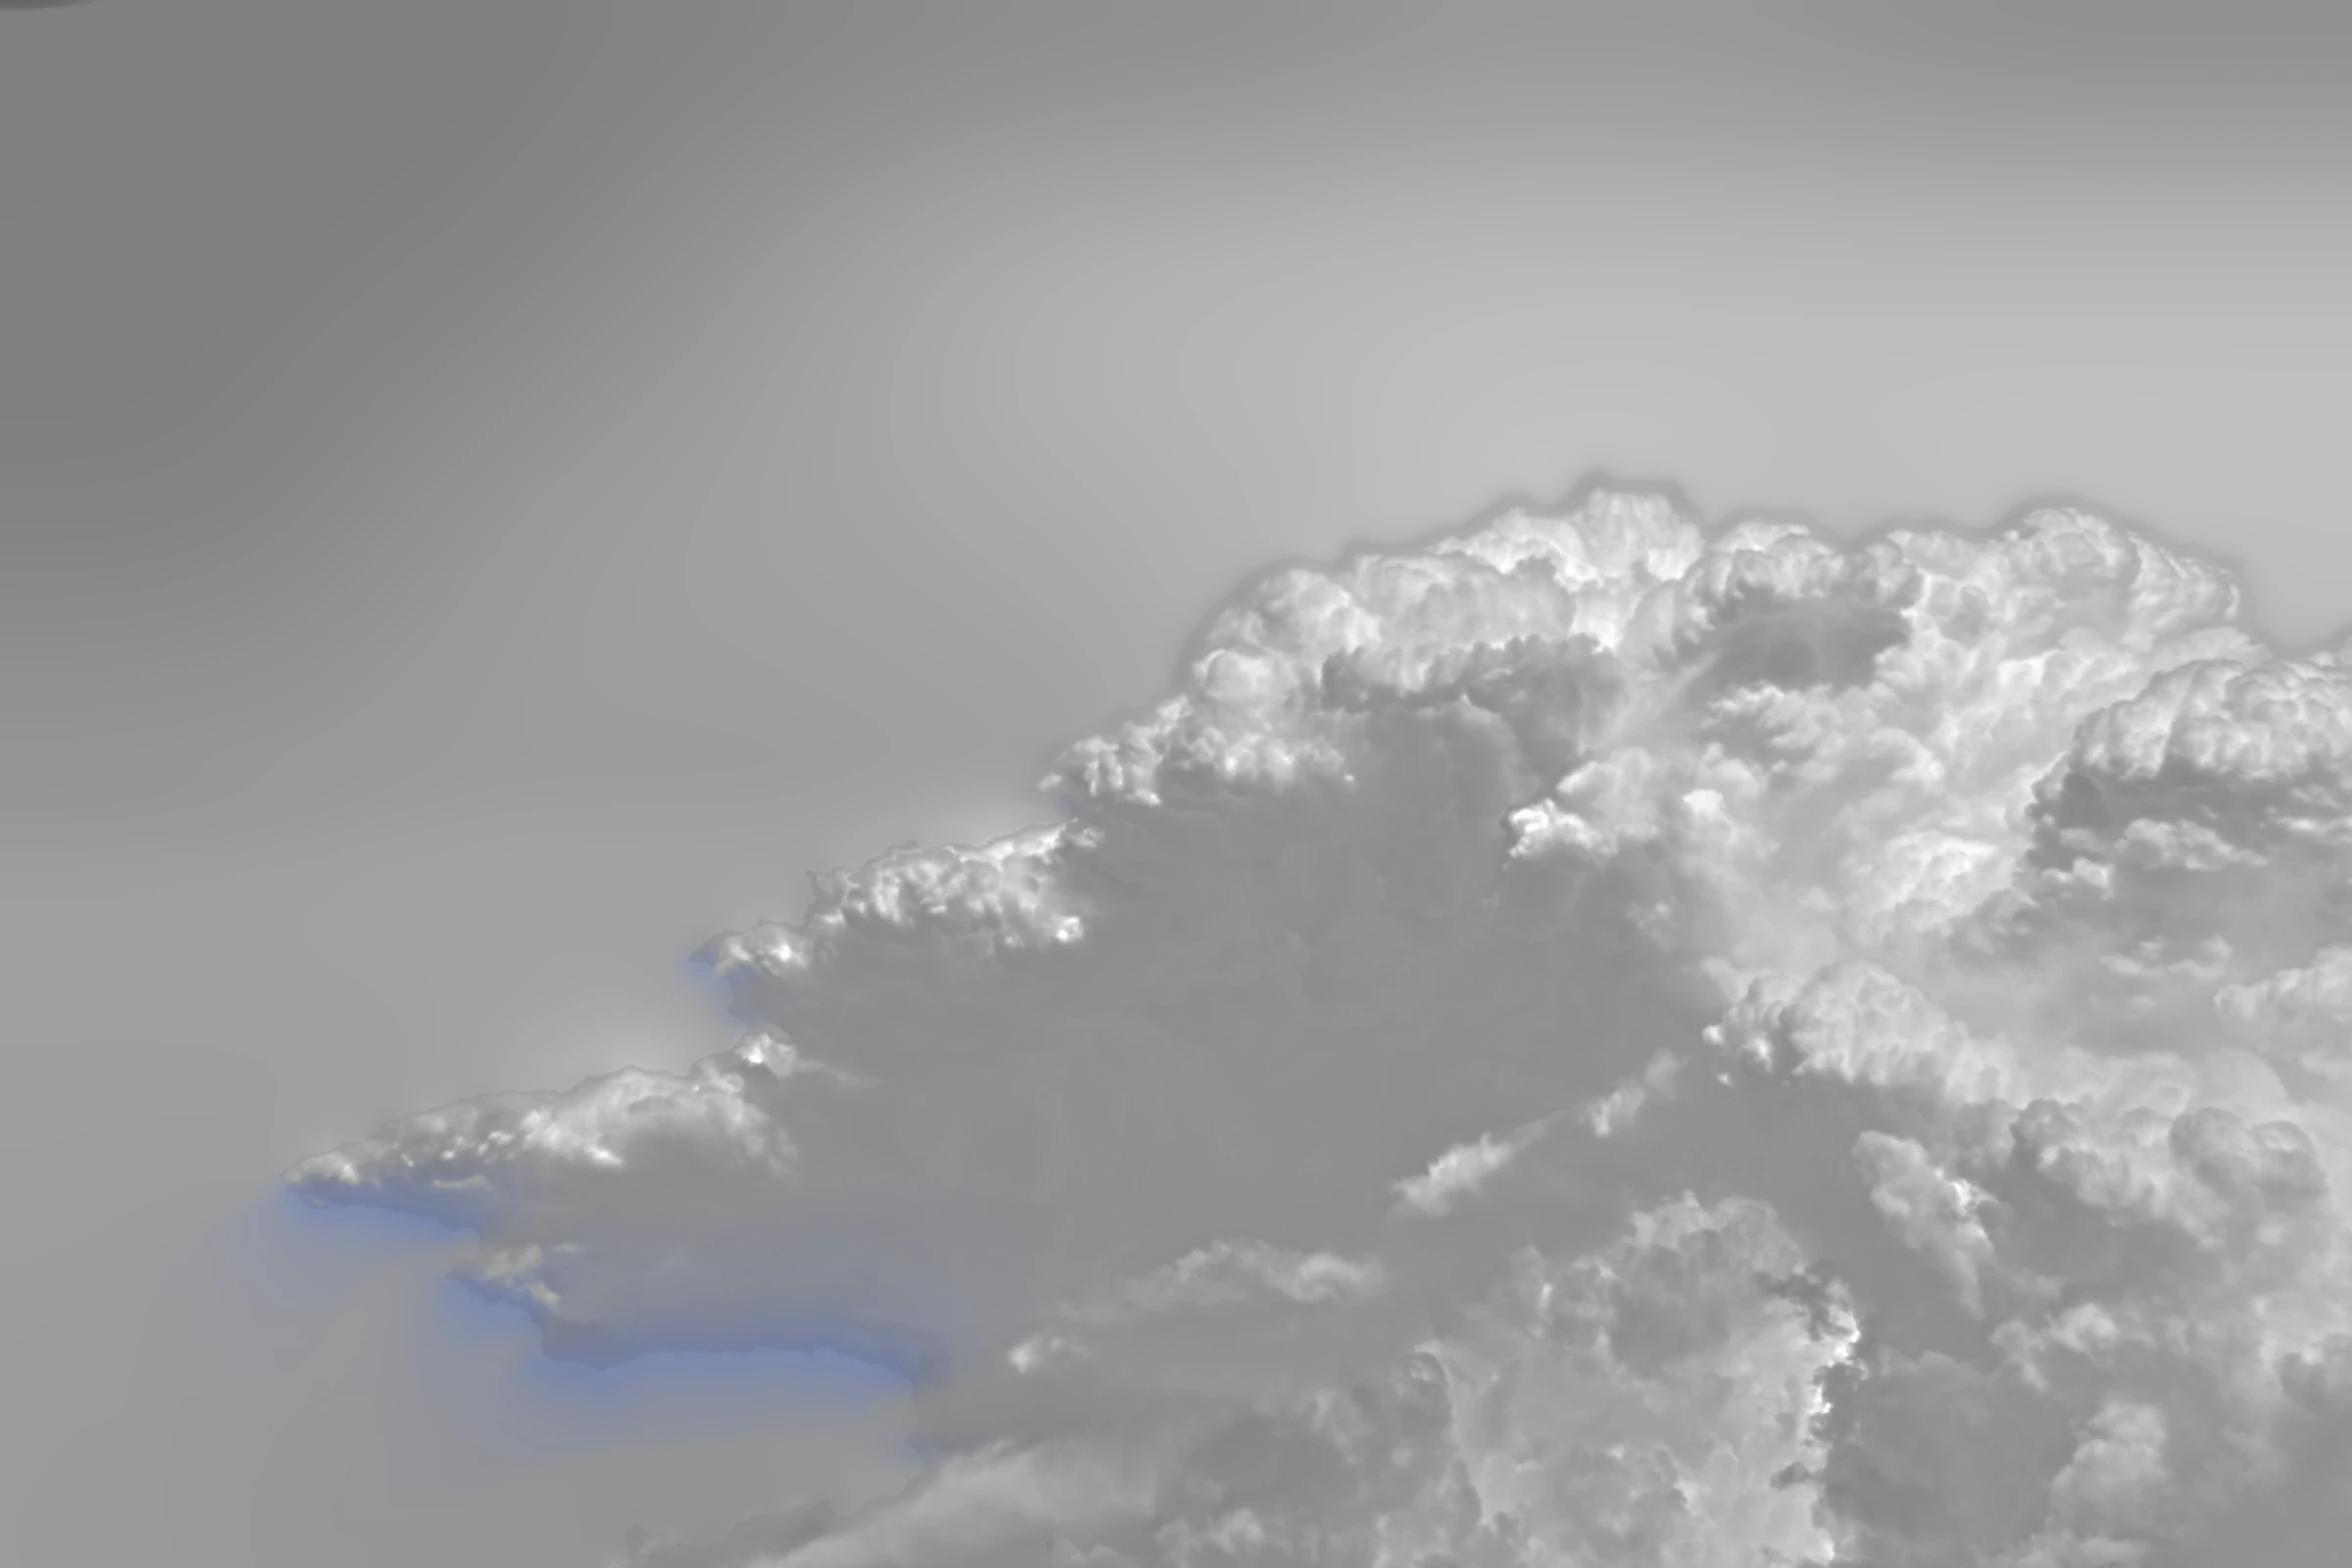
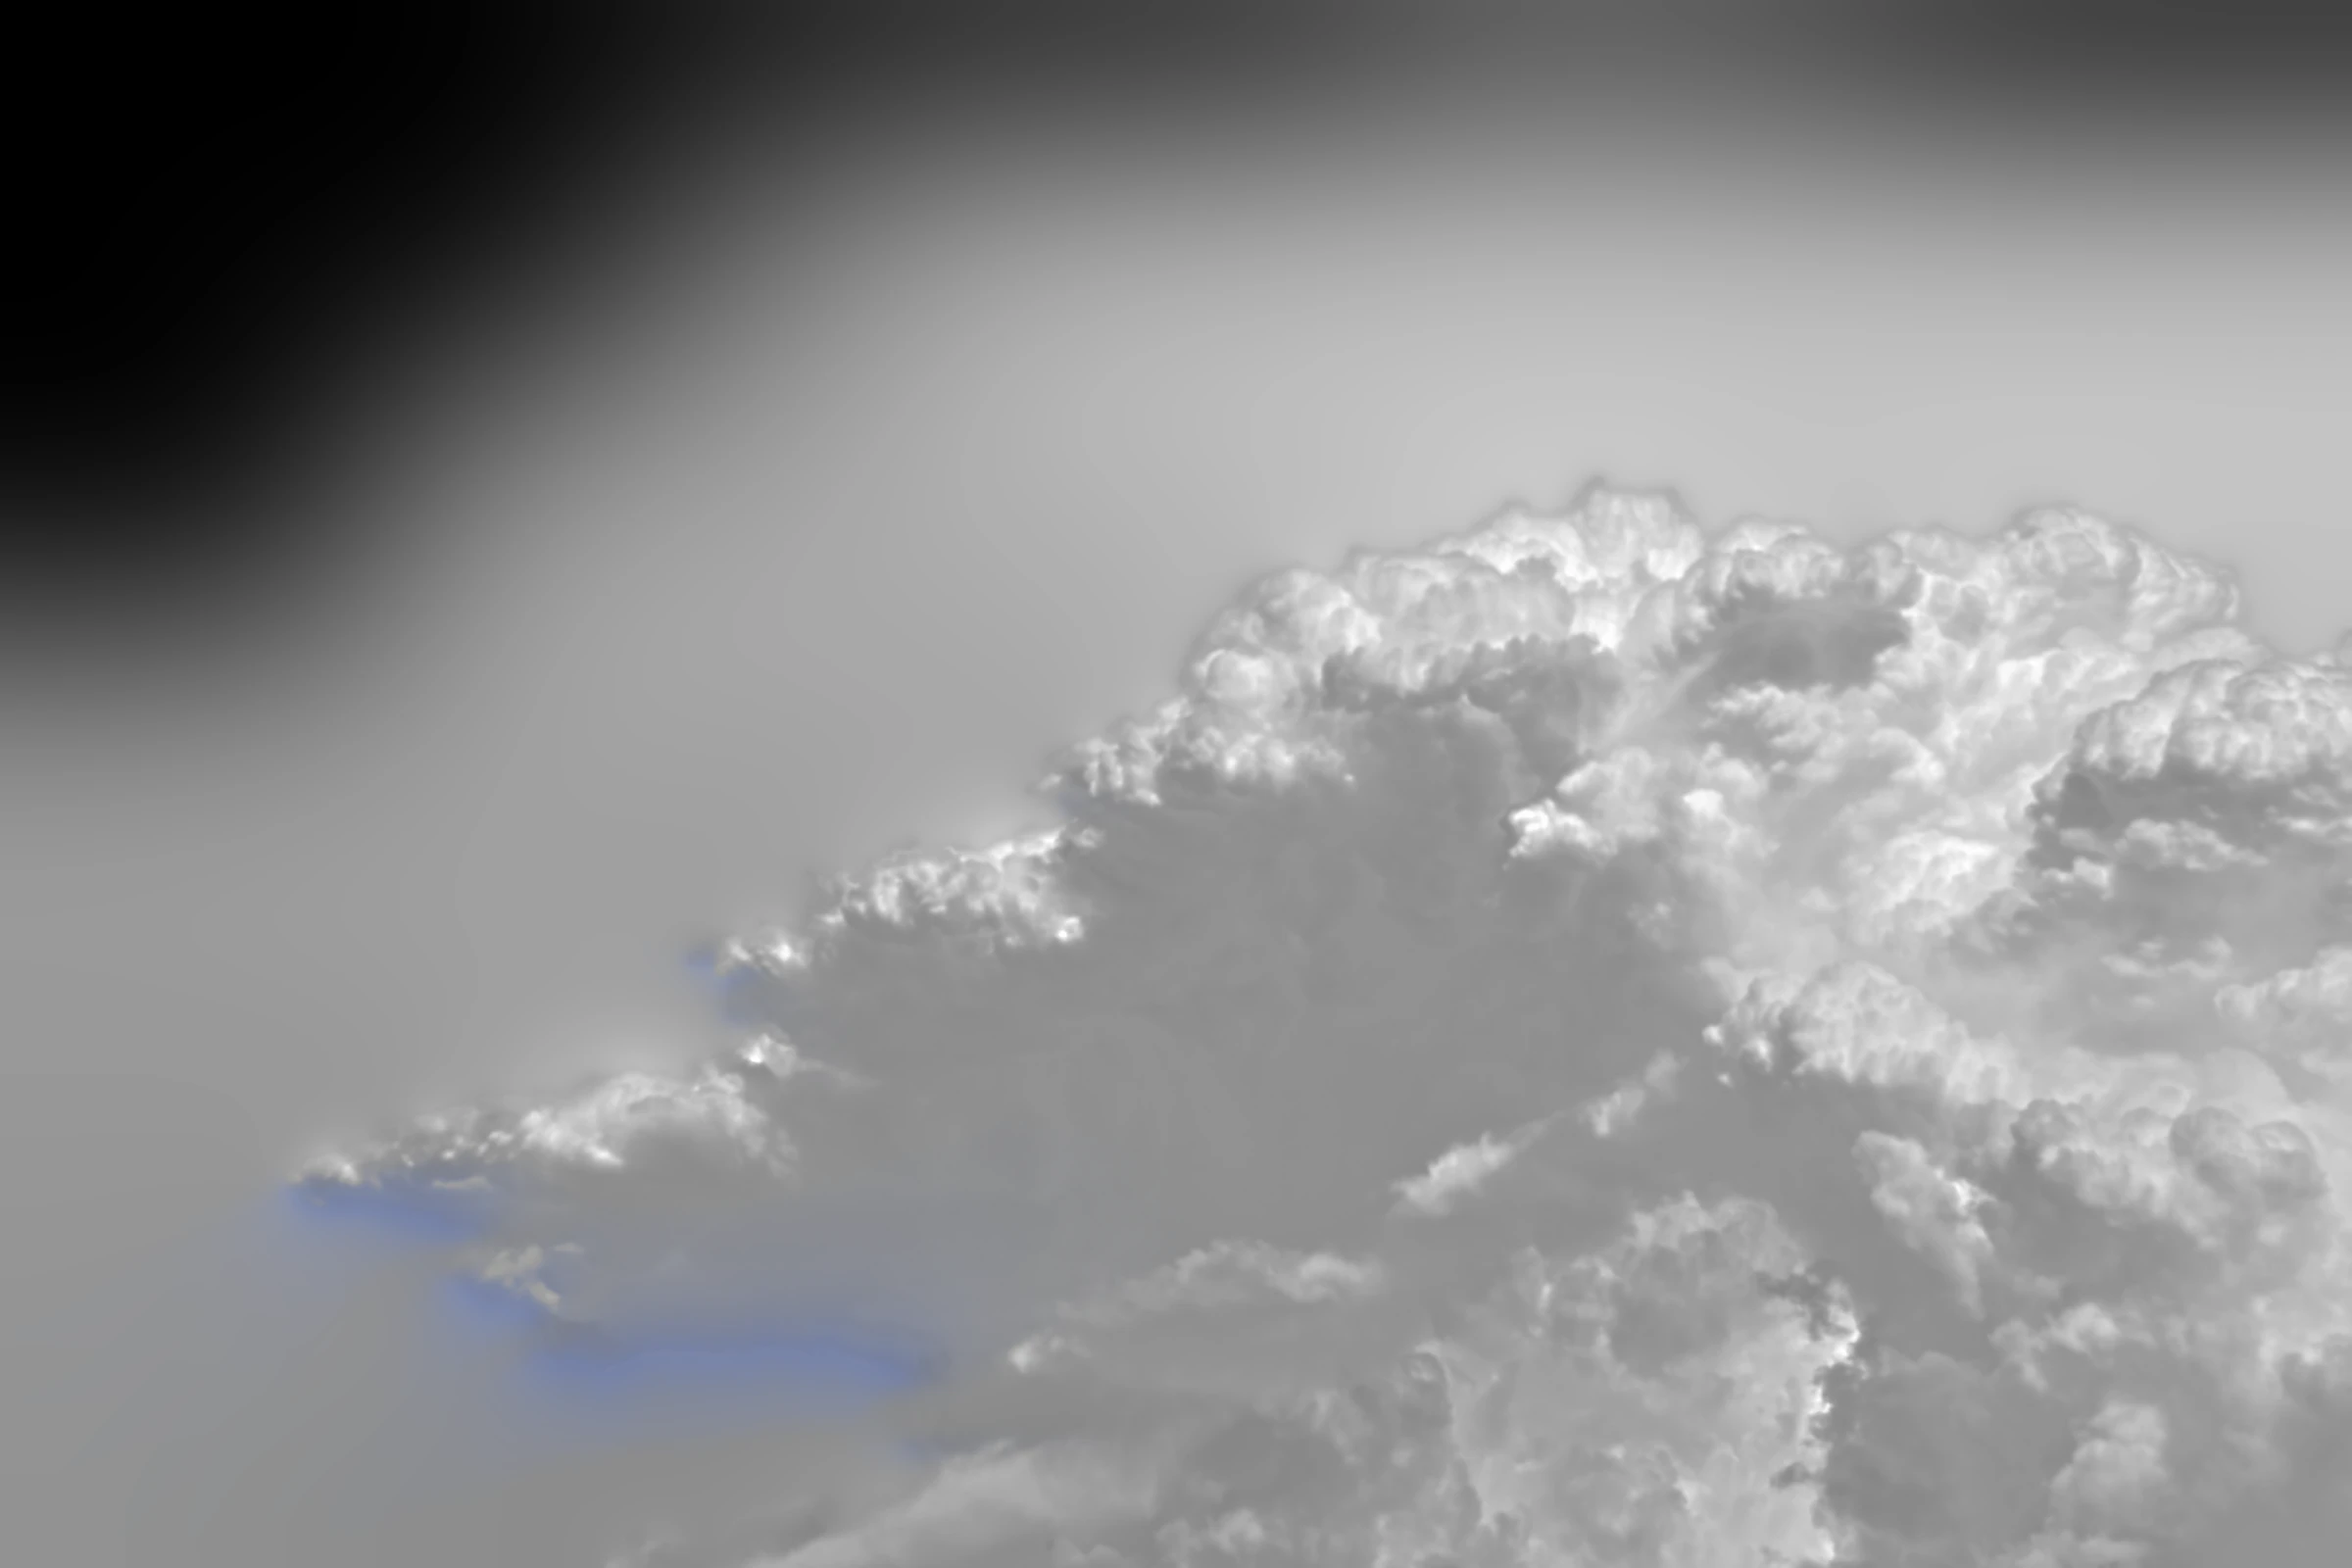
Lab: climb denchuka round 1
Claude-Session: https://claude.ai/code/session_01RqENhngNCzDFmJWDZueXGV

Changed region(s): [[0.0, 0.0, 1.0, 0.4688]]

diff --git a/src/app/lab/denchuka/denchukaEngine.js b/src/app/lab/denchuka/denchukaEngine.js
@@ -225,6 +225,20 @@ vec3 cloudGrade(vec3 c, float zen) {
   vec3 sunC = SUN * L;
   return mix(shadeC, sunC, top);
 }
+// The cumulus's edge, in the air (cloud.py: the edge). Its coverage (sky.png
+// B) falls off over ~10-14 plate px, reaching into its silhouette, and what
+// is left of the cloud in that falloff is thin cloud lit by the same air as
+// the cobalt round it: it takes the sky's hue, and loses its own contrast and
+// saturation toward the sky's, so the edge passes from cloud through
+// sky-tinted haze into the blue, never as a pale rim of the cloud's own
+// skylight shade on the cobalt (a cut-out sticker's fringe).
+vec3 cloudAir(vec3 c, vec3 sky, float b) {
+  float air = 1.0 - smoothstep(0.0, 0.9, b);
+  vec3 ch = rgb2hsv(c);
+  vec3 sh = rgb2hsv(sky);
+  vec3 thin = hsv2rgb(vec3(sh.x, mix(ch.y, sh.y, 0.5), mix(ch.z, sh.z, 0.35)));
+  return mix(c, thin, air * 0.85);
+}
 // The concrete, seen from directly beneath: the face the camera sees is the
 // shaft's underside, in its own shade against a bright sky, so the pole is the
 // frame's one firm dark silhouette, cut across the glowing tower behind it.
@@ -290,6 +304,34 @@ vec3 unmix(vec3 withIt, vec3 behind, float a) {
   return clamp((withIt - (1.0 - a) * behind) / max(a, 0.2), 0.0, 1.0);
 }
 
+// The cumulus's value, debanded. Half the tower lives in its shade, in the
+// bake's 0.5-0.6 (some 25 steps of 8 bits), which the grade stretches (x1.8,
+// and its skylight saturation with it), so the steps came up on screen as
+// flat, hard-edged plateaus: a posterised, oil-paint body. Each pixel is
+// averaged with the cloud round it (8 taps, 3 and 6 texels out, turned per
+// pixel) but only with taps within a step or two of its own value, so a
+// plateau's edge becomes the soft ramp it stands for and a billow's real
+// edge (several steps at once) stays drawn. (Not in the sun, over ~0.62,
+// where the grade compresses the steps and every one is the billows' drawing.)
+vec3 cloudTex(vec2 pp) {
+  vec3 c0 = texture(uCloud, pp / uPlate).rgb;
+  float v0 = dot(c0, LUMA);
+  if (v0 > 0.64) return c0;
+  float sh = 1.0 - smoothstep(0.6, 0.64, v0);
+  float r0 = fract(sin(dot(floor(pp), vec2(12.9898, 78.233))) * 43758.5453) * 6.2832;
+  vec3 acc = c0;
+  float w = 1.0;
+  for (int k = 0; k < 8; k++) {
+    float ang = r0 + float(k) * 0.7854;
+    vec2 o = vec2(cos(ang), sin(ang)) * ((k & 1) == 0 ? 3.0 : 6.0);
+    vec3 c = texture(uCloud, (pp + o) / uPlate).rgb;
+    float wk = sh * (1.0 - smoothstep(1.5 / 255.0, 3.5 / 255.0, abs(dot(c, LUMA) - v0)));
+    acc += c * wk;
+    w += wk;
+  }
+  return acc / w;
+}
+
 void main() {
   vec2 pp = vec2(vUv.x, 1.0 - vUv.y) * uPlate;
   ivec2 ip = ivec2(floor(pp));
@@ -329,7 +371,7 @@ void main() {
   if (skyA > 0.002) {
     vec3 behind = plate(3, pp, rk);
     vec3 graded = skyGrade(behind, sk.g);
-    if (sk.b > 0.002) graded = mix(graded, cloudGrade(texture(uCloud, pp / uPlate).rgb, sk.g), sk.b);
+    if (sk.b > 0.002) graded = mix(graded, cloudAir(cloudGrade(cloudTex(pp), sk.g), graded, sk.b), sk.b);
     col = clamp(col + skyA * (graded - behind), 0.0, 1.0);
   }
   // what of this pixel is still sky (skyW) and of that the cumulus (cloudW),

diff --git a/tools/depth/bakes/denchuka/cloud.py b/tools/depth/bakes/denchuka/cloud.py
@@ -44,7 +44,10 @@
 # regraded cobalt at coverage a, so where a crown thins into the blue it is
 # cloud thinning into cobalt, with no pale band of the HDRI's sky between
 # them. Its shade side, lit by the sky, is a little blue itself, so the body
-# is made solid inside its silhouette.
+# is made solid inside its silhouette. Its edge, all round the tower, is
+# then feathered from its signed distance over ~13-17 plate px reaching into
+# the silhouette, its value losing its contrast toward it, and the comp
+# turns the falloff to the sky's hue (the edge, below; COMP cloudAir).
 #
 # Tone: linear radiance, each turret set against its neighbours and each
 # billow's own light and shade lifted (most in the shade side, where the
@@ -344,7 +347,7 @@ print(f"specks: {n - 1} dark spots, {speck.sum()} px filled")
 C = np.where(speck[..., None], push_pull(C.astype(np.float32), (~speck).astype(np.float32)), C)
 
 # ---------------------------------------------------------------- tone
-RELIEF_FOLD, RELIEF_BILLOW = 1.2, 1.5
+RELIEF_FOLD, RELIEF_BILLOW, RELIEF_SHADE = 1.2, 1.5, 2.2
 CY = C @ np.array([0.2126, 0.7152, 0.0722])
 ref = np.percentile(CY[a > 0.9], 99.5)
 x = CY / ref
@@ -357,12 +360,20 @@ x = CY / ref
 # the shade side, where the HDRI's billows are faintest. (Not along the anvil
 # shelf's underside, where it would bring the streaks back.)
 lx = np.log(np.maximum(x, 1e-4)).astype(np.float32)
+# First a light low-frequency pass. Lifted as it is cut (x2.5-4 on the
+# billows in the shade side), the HDRI's finest grain, its sensor noise and
+# the remap's ringing, came up as blotches with hard borders: a posterised,
+# oil-paint body. Pulled SMOOTH of the way toward its own low-pass (SMOOTH_S
+# px) first, the lift draws the billows' soft, bleeding volume and not the
+# grain between them.
+SMOOTH, SMOOTH_S = 0.5, 1.6
+lx = lx + SMOOTH * (cv2.GaussianBlur(lx, (0, 0), SMOOTH_S) - lx)
 ls = cv2.GaussianBlur(lx, (0, 0), 0.7)  # its drawing, not the HDRI's noise
 lb = cv2.GaussianBlur(lx, (0, 0), 10)
 lB = cv2.GaussianBlur(lx, (0, 0), 48)
 inshade = 1 - np.clip((np.exp(lb) - 0.35) / 0.4, 0, 1)
 inshade = inshade * (1 - 0.8 * band[..., 0])
-x = np.exp(lB + (lb - lB) * (RELIEF_FOLD + 1.2 * inshade) + (ls - lb) * (RELIEF_BILLOW + 2.5 * inshade))
+x = np.exp(lB + (lb - lB) * (RELIEF_FOLD + 1.2 * inshade) + (ls - lb) * (RELIEF_BILLOW + RELIEF_SHADE * inshade))
 x = x / np.percentile(x[a > 0.5], 99.97)  # the brightest crown at 1
 print("relief x: " + "  ".join(f"p{p} {np.percentile(x[a > 0.9], p):.3f}" for p in (1, 5, 10, 25, 50, 75, 95)))
 # Over a floor: the live grade (cloudGrade) holds everything under 0.5 at 0.5
@@ -394,13 +405,9 @@ disp = FLOOR + (SH - FLOOR) * np.clip(x, 0, 1) ** GX
 #   inside it (the HDRI's own darker margin, its cloud thinning over its
 #   sky, unmixed, drew a dark outline), the darkening rolls off a little
 #   there and it lifts a touch: lit through, never an outline;
-# - the matte's edge is rebuilt from its signed distance as a soft logistic
-#   falloff, ~9 px from half coverage to clear sky on the base (~13 px
-#   10-90%) and ~6 on the flank's other edges, so it dissolves into the
-#   cobalt instead of being cut.
+# - (its edge, and the rest of the tower's, is feathered below: the edge)
 UND_REG = ((1450.0, 1750.0), (760.0, 900.0))
 UND_L, UND_L2, UND_DARK, UND_RIM = 40.0, 150.0, 0.075, 6.0
-UND_S = (2.0, 3.0)  # logistic scale, plate px: up/side-facing edge, underside
 sm = lambda e0, e1, v: np.clip((v - e0) / (e1 - e0), 0, 1) ** 2 * (3 - 2 * np.clip((v - e0) / (e1 - e0), 0, 1))
 reg = ((1 - sm(*UND_REG[0], xs)) * sm(*UND_REG[1], ys)).astype(np.float32)
 solid = (a_shape > 0.5).astype(np.uint8)
@@ -439,12 +446,41 @@ d2 = d2 - UND_DARK * base * (1 - 0.35 * rim) + 0.012 * rim
 d2 = np.maximum(d2, FLOOR + 0.004)
 disp = disp + (d2 - disp) * reg
 print(f"underside: {np.mean((reg * base > 0.3) & (sd > 0)) * 100:.2f}% of the frame darkened toward the base")
-# the soft edge: rebuilt from the signed distance, scaled by which way it faces
-s_ = UND_S[0] + (UND_S[1] - UND_S[0]) * under
-a_soft = 1 / (1 + np.exp(-(sd - 0.5) / s_))
-# away from the edge the matte keeps its own holes and wisps
-a_soft = np.where(np.abs(sd) > 8 * s_, a_shape, a_soft)
-a = np.clip(a + (a_soft * fade - a) * reg, 0, 1).astype(np.float32)
+
+# ---------------------------------------------------------------- the edge
+# Cut at the HDRI's own resolution the matte goes from clear sky to solid
+# cloud in ~3 plate px all round the tower, so its silhouette (the anvil's
+# most of all) read as a cut-out laid on the cobalt, with a pale rim of the
+# cloud's lightest value on it. A cloud's edge is where it thins: its
+# coverage falls off over a few metres of air, and what is left of it there
+# is lit like the air round it, losing its own light and shade to the sky's.
+# - The coverage is rebuilt, all round the tower, from the signed distance
+#   to its half-coverage contour (smoothed, so the contour carries no pixel
+#   steps): a smoothstep from FEATHER_OUT px outside it to FEATHER_IN px
+#   inside it (wider where the edge faces down, the base, which dissolves
+#   into the blue more than a sunlit crown does), so the falloff reaches
+#   into the silhouette rather than blurring out of it. Inside it the
+#   matte keeps its own holes; outside the ramp its own wisps come back.
+# - Its value loses its contrast toward the edge: within HAZE_D px of it, it
+#   is pulled (HAZE at the edge) toward its own wide local mean, so no
+#   billow's light or shade runs out to the silhouette; outside the contour
+#   it takes the margin's own value, never the brighter fill the unmixing
+#   left there. The live comp (COMP) then turns what is left of it there to
+#   the sky's hue at the coverage's falloff, the edge sitting in the same air
+#   as the cobalt.
+FEATHER_OUT, FEATHER_IN = 3.0, (10.0, 14.0)  # plate px: up/side-facing edge, underside
+HAZE_D, HAZE, HAZE_S = 22.0, 0.65, 8.0
+sds = cv2.GaussianBlur(sd, (0, 0), 2.0)
+fin = FEATHER_IN[0] + (FEATHER_IN[1] - FEATHER_IN[0]) * under
+a_f = sm(-FEATHER_OUT, fin, sds)
+a_edge = np.where(sds >= 0, np.minimum(a_f, a_shape), np.maximum(a_f, a_shape * sm(FEATHER_OUT, FEATHER_OUT + 6, -sds)))
+a = np.clip(a_edge * fade, 0, 1).astype(np.float32)
+inner = (sds > 2).astype(np.float32)
+dl = cv2.GaussianBlur(disp.astype(np.float32) * inner, (0, 0), HAZE_S) / np.maximum(cv2.GaussianBlur(inner, (0, 0), HAZE_S), 1e-3)
+hz = HAZE * (1 - sm(0.0, HAZE_D, sds))
+disp = np.where(inner > 0, disp + (dl - disp) * hz, disp)
+disp = np.where(sds <= 2, fill(disp, sds > 2), disp)
+print(f"edge: {np.mean((a > 0.02) & (a < 0.98)) * 100:.2f}% of the frame in the falloff")
 
 chroma = C / np.maximum(CY, 1e-6)[..., None]
 # the HDRI's own tint, a little softened, for the value below
